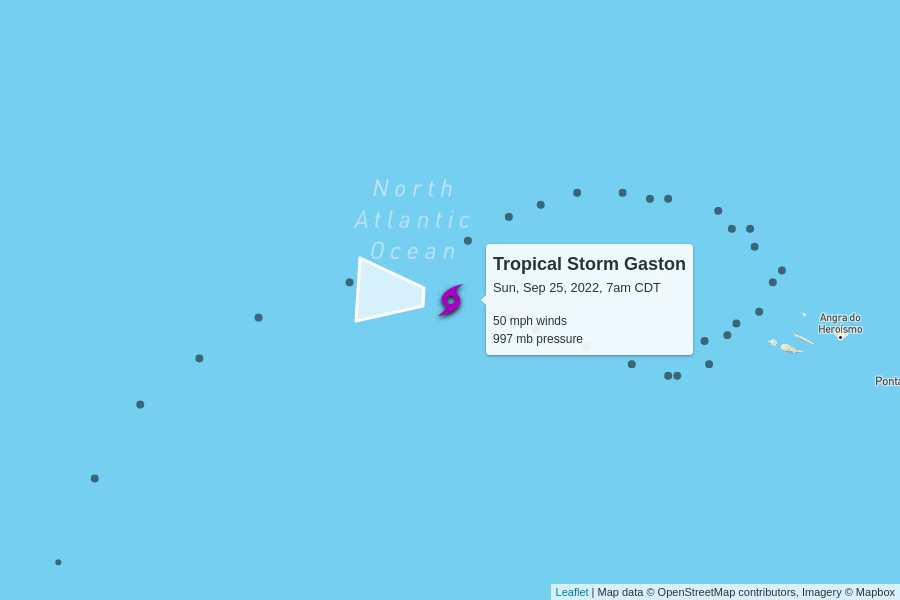
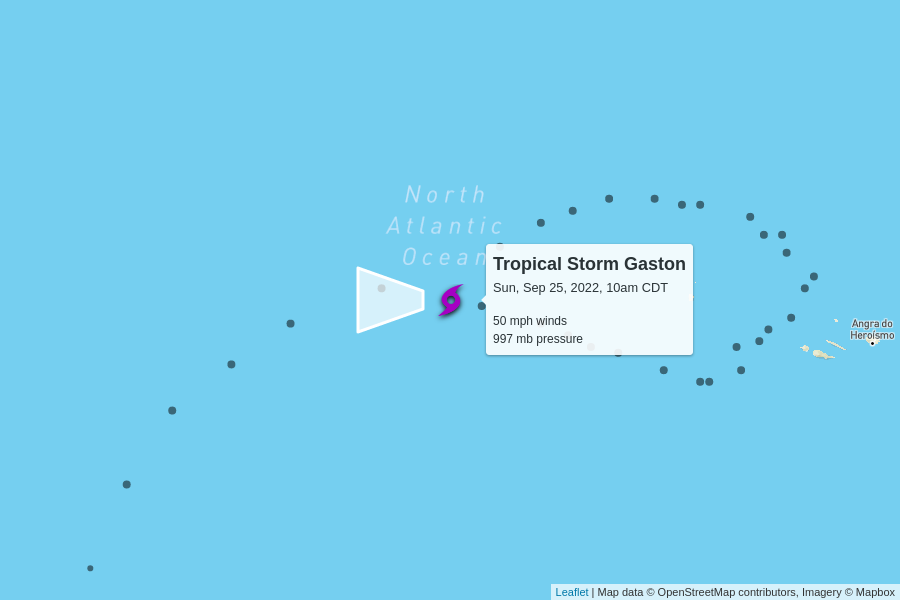
automatic update

diff --git a/docs/index.html b/docs/index.html
@@ -100,7 +100,7 @@
         <td colspan="6" class="storm category-0" >
           <h2>
             Tropical Storm Ian
-            <p class="updated">last updated <span data-time>2022-09-25T12:00:00.000Z</span></p>
+            <p class="updated">last updated <span data-time>2022-09-25T15:00:00.000Z</span></p>
           </h2>
         </td>
       </tr>
@@ -118,9 +118,9 @@
         <td>50 mph</td>
         <td>1001 mb</td>
         <td>
-          12 mph to the west-northwest
+          14 mph to the west-northwest
           <br/>
-          <span style="display: inline-block; font-size: 1.5em; transform: rotate(285deg);">↑</span>
+          <span style="display: inline-block; font-size: 1.5em; transform: rotate(290deg);">↑</span>
         </td>
         <td><a href="https://raw.githubusercontent.com/mgwalker/atlantic-hurricanes/main/data/csv/AL092022.csv">AL092022.csv</a></td>
         <td><a href="https://www.nhc.noaa.gov/archive/2022/IAN.shtml?">NHC advisories</a></td>
@@ -144,7 +144,7 @@
         <td colspan="6" class="storm category-0" >
           <h2>
             Tropical Storm Gaston
-            <p class="updated">last updated <span data-time>2022-09-25T12:00:00.000Z</span></p>
+            <p class="updated">last updated <span data-time>2022-09-25T15:00:00.000Z</span></p>
           </h2>
         </td>
       </tr>
@@ -162,9 +162,9 @@
         <td>50 mph</td>
         <td>997 mb</td>
         <td>
-          10 mph to the west
+          12 mph to the west
           <br/>
-          <span style="display: inline-block; font-size: 1.5em; transform: rotate(275deg);">↑</span>
+          <span style="display: inline-block; font-size: 1.5em; transform: rotate(270deg);">↑</span>
         </td>
         <td><a href="https://raw.githubusercontent.com/mgwalker/atlantic-hurricanes/main/data/csv/AL082022.csv">AL082022.csv</a></td>
         <td><a href="https://www.nhc.noaa.gov/archive/2022/GASTON.shtml?">NHC advisories</a></td>
